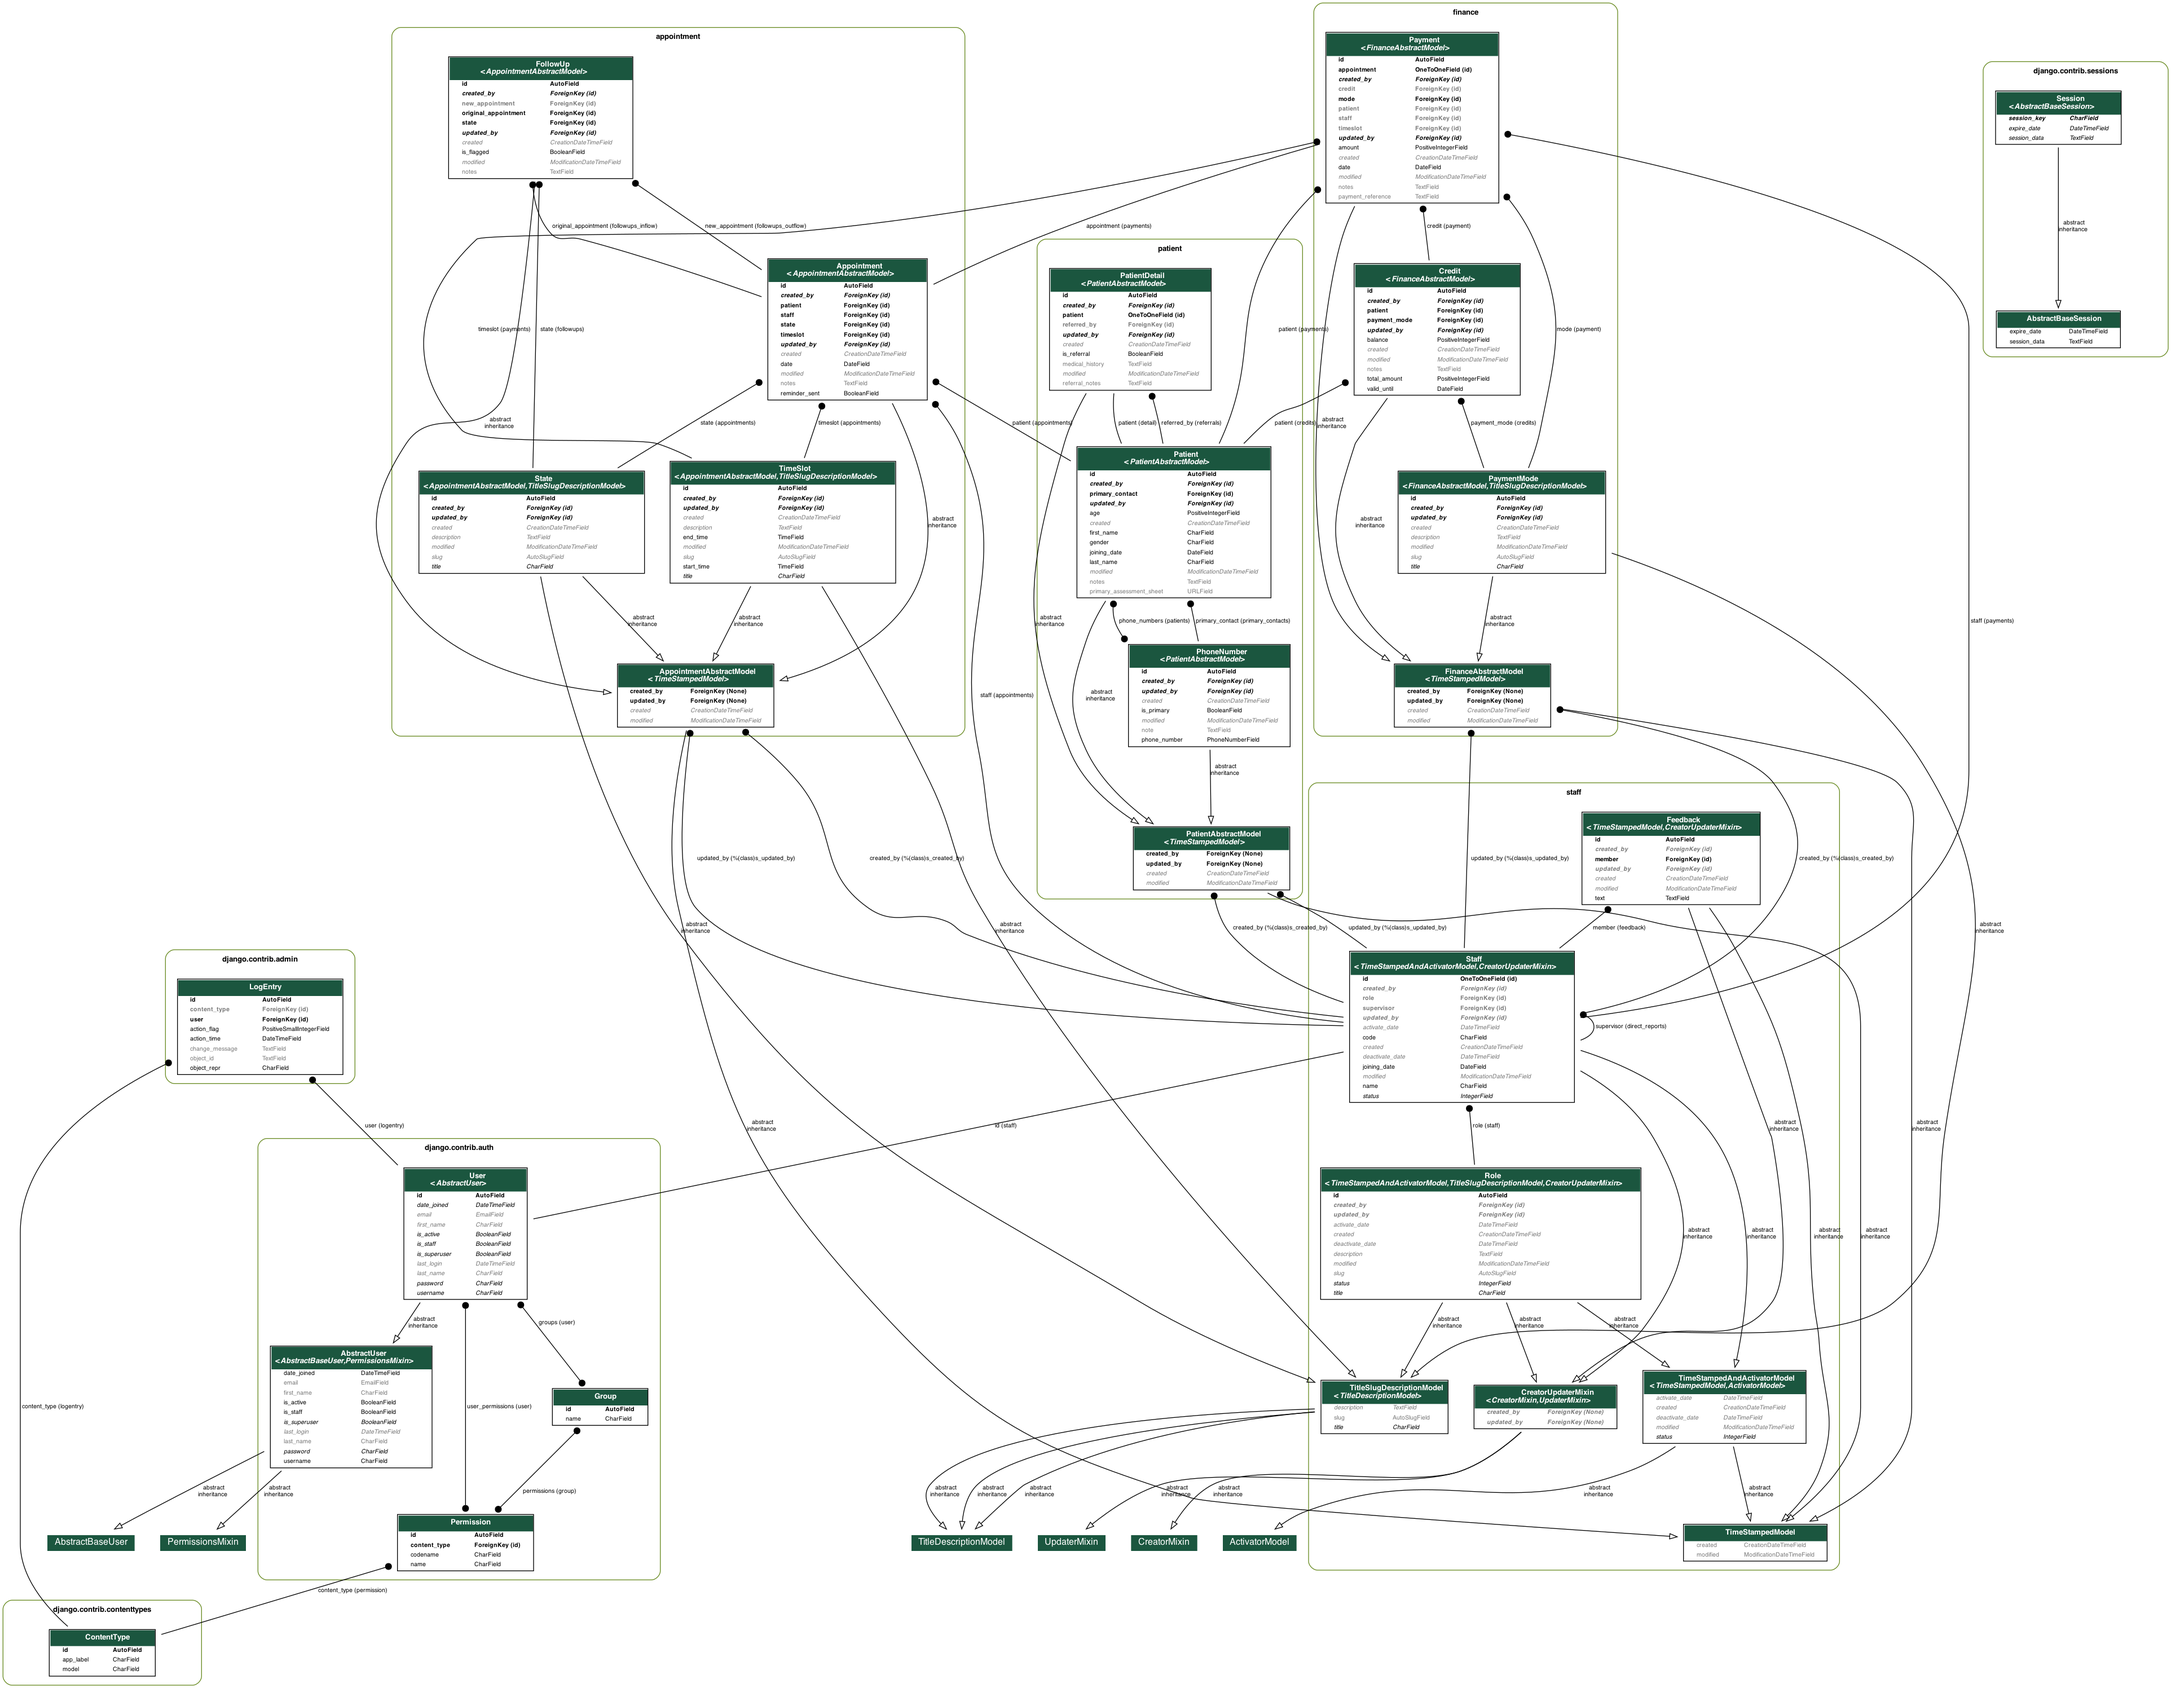
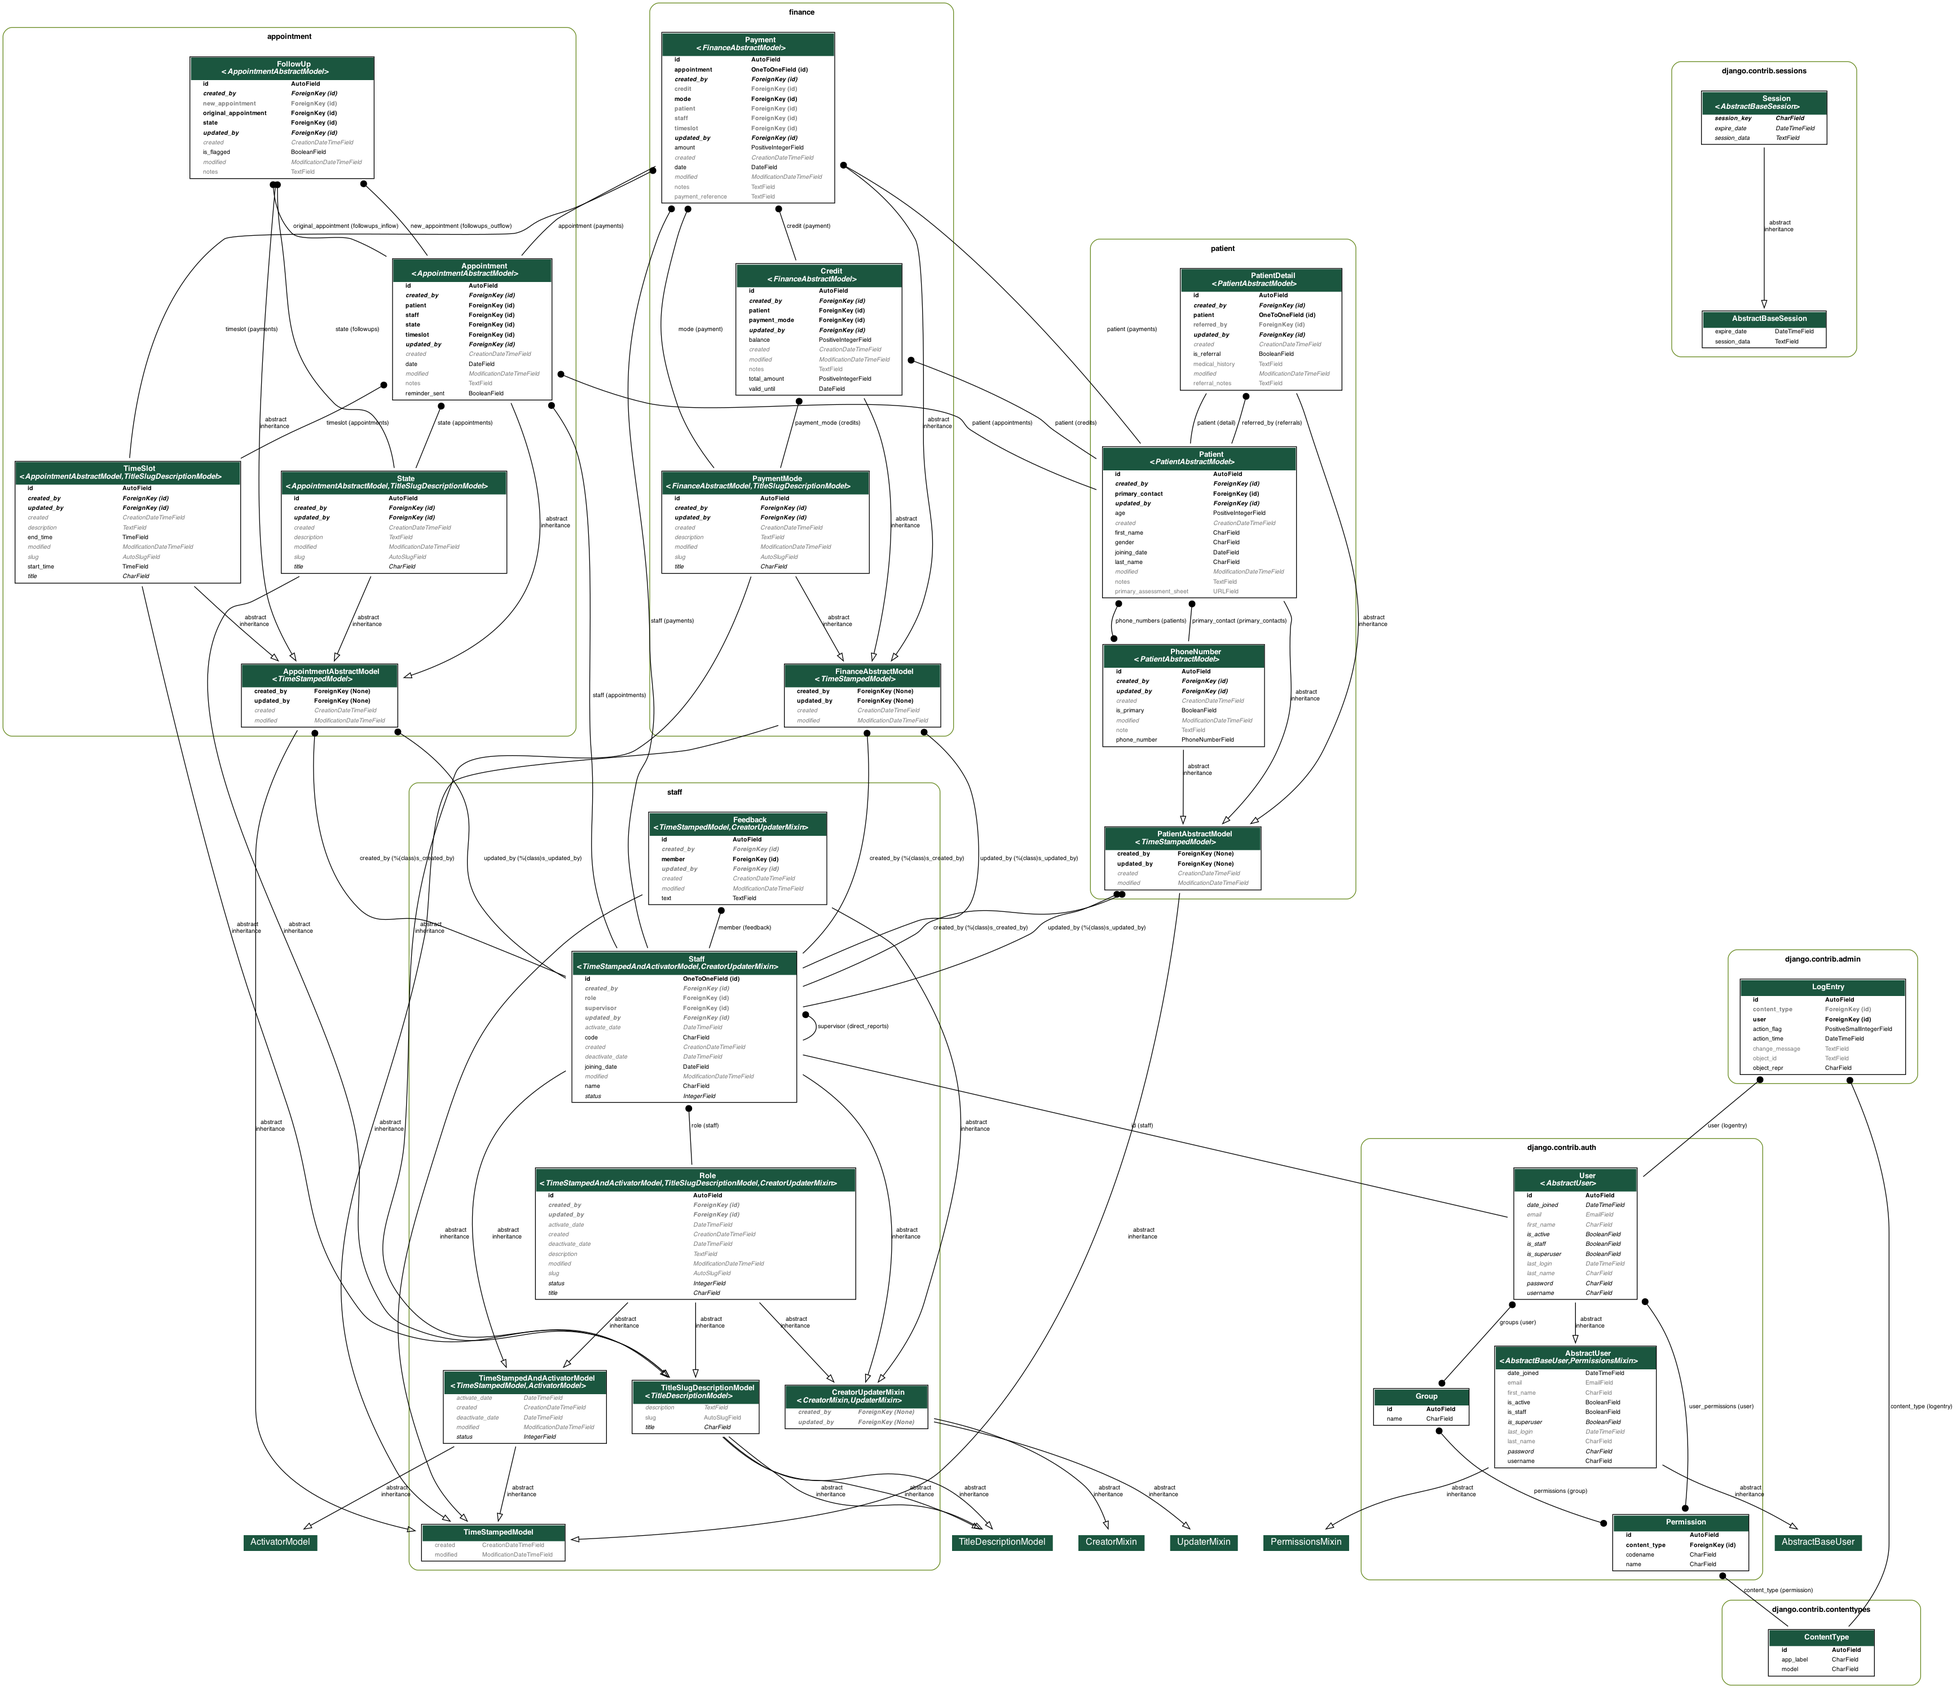
Grappelli Demo using Staff model (#12)
* Demo of grappelli using Staff model

* updating the eerds

* updating the eerds

diff --git a/staff/admin.py b/staff/admin.py
@@ -1,8 +1,98 @@
 from django.contrib import admin
+from django.contrib.admin import TabularInline
 
 from staff.models import Feedback, Role, Staff
 
 # Register your models here.
 admin.site.register(Role)
-admin.site.register(Staff)
+# admin.site.register(Staff)
 admin.site.register(Feedback)
+
+
+class FeedbackInline(TabularInline):
+    model = Feedback
+    can_delete = False
+
+
+class RoleInline(TabularInline):
+    model = Role
+    can_delete = False
+
+
+class StaffInline(TabularInline):
+    model = Staff
+    readonly_fields = ("__all__",)
+    list_display_links = ["__str__"]
+    exclude = (
+        # "is_active",
+        # "created_at",
+        # "modified_at",
+        # "difficulty_sort",
+        # "url",
+    )
+    can_delete = False
+
+
+class StaffAdmin(admin.ModelAdmin):
+    list_display = ("name", "role", "supervisor", "code", "get_status_display")
+    search_fields = ["code", "name"]
+    list_display_links = ["name", "code"]
+    list_filter = ["supervisor", "status", "role"]
+    readonly_fields = ("created", "modified")
+    list_select_related = ["role"]
+
+    def get_readonly_fields(self, request, obj=None):
+        if obj:
+            custom_readonly_fields = (
+                "created_by",
+                "updated_by",
+            )
+            return self.readonly_fields + custom_readonly_fields
+        return self.readonly_fields
+
+    def formfield_for_foreignkey(self, db_field, request, **kwargs):
+
+        # TODO optimize this
+        if db_field.name in ["created_by", "updated_by"]:
+            requester_django_user = request.user
+            kwargs["initial"] = (
+                requester_django_user.staff
+                if hasattr(requester_django_user, "staff")
+                else None
+            )
+            kwargs["queryset"] = Staff.objects.filter(id=requester_django_user)
+            return db_field.formfield(**kwargs)
+
+        return super(StaffAdmin, self).formfield_for_foreignkey(
+            db_field, request, **kwargs
+        )
+
+    class Meta:
+        model = Staff
+
+
+admin.site.register(Staff, StaffAdmin)
+
+
+class AbstractAdmin(object):
+    def get_readonly_fields(self, request, obj=None):
+        if obj:
+            custom_readonly_fields = (
+                "created_by",
+                "updated_by",
+            )
+            return self.readonly_fields + custom_readonly_fields
+        return self.readonly_fields
+
+    def formfield_for_foreignkey(self, db_field, request, **kwargs):
+
+        # TODO optimize this
+        if db_field.name in ["created_by", "updated_by"]:
+            requester_django_user = request.user
+            kwargs["initial"] = (
+                requester_django_user.staff
+                if hasattr(requester_django_user, "staff")
+                else None
+            )
+            kwargs["queryset"] = Staff.objects.filter(id=requester_django_user)
+            return db_field.formfield(**kwargs)

diff --git a/staff/management/commands/bootstrap_staff_data.py b/staff/management/commands/bootstrap_staff_data.py
@@ -25,6 +25,8 @@ class Command(BaseCommand):
 
         self.create_staff()
 
+        self.set_superuser_as_supervisor()
+
     def create_roles(self):
         roles = ["SuperUser", "Junior", "Mid", "Senior", "Intern"]
         for role_title in roles:
@@ -39,7 +41,9 @@ class Command(BaseCommand):
         core_user = self._django_user(
             username="SuperUser",
             password=None,
-            email="superuser@localhost.com",
+            first_name="Super",
+            last_name="User",
+            email="superuser@email.com",
             is_superuser=True,
             is_staff=True,
             is_active=True,
@@ -49,7 +53,6 @@ class Command(BaseCommand):
 
         staff_member = self._create_staff_member(
             core_user=core_user,
-            name="SuperUser",
             code=SUPERUSER_STAFF_CODE,
             role=su_role,
         )
@@ -68,7 +71,7 @@ class Command(BaseCommand):
         email: str = None,
         is_superuser: bool = False,
         is_active: bool = True,
-        is_staff: bool = False,
+        is_staff: bool = True,
     ) -> CoreUser:
         new_core_user = CoreUser()
 
@@ -76,7 +79,7 @@ class Command(BaseCommand):
         fake_last_name = fake.last_name()
 
         new_core_user.username = (
-            username if username else f"{fake.first_name()}.{fake.last_name()}".lower()
+            username if username else f"{fake_first_name}.{fake_last_name}".lower()
         )
         new_core_user.first_name = first_name if first_name else fake_first_name
         new_core_user.last_name = last_name if last_name else fake_last_name
@@ -100,25 +103,25 @@ class Command(BaseCommand):
         self,
         core_user: CoreUser,
         role: Role,
-        name: str = None,
         code: str = None,
-        supervisor: CoreUser = None,
         joining_date: datetime.date = datetime.datetime.today().date(),
     ):
+
         new_staff = Staff()
         new_staff.id = core_user
-        new_staff.name = (
-            name if name else f"{core_user.first_name} {core_user.last_name}"
-        )
+        new_staff.name = f"{core_user.first_name} {core_user.last_name}"
         new_staff.code = code if code else core_user.username[:5].upper()
         new_staff.role = role
-        new_staff.supervisor = supervisor
         new_staff.joining_date = joining_date
         new_staff.save()
 
         self.style.SUCCESS(f"Staff created successfully! {str(new_staff)}")
 
         return new_staff
+
+    def set_superuser_as_supervisor(self):
+        supervisor = Staff.objects.get(id__username="SuperUser")
+        all_staff = Staff.objects.update(supervisor=supervisor)
 
     def create_mid_level(self):
         mid_level = Role.objects.get(slug="mid")

diff --git a/staff/migrations/0002_auto_20210323_2113.py b/staff/migrations/0002_auto_20210323_2113.py
@@ -1,0 +1,27 @@
+# Generated by Django 3.1.7 on 2021-03-23 15:43
+
+import django.db.models.deletion
+from django.conf import settings
+from django.db import migrations, models
+
+
+class Migration(migrations.Migration):
+
+    dependencies = [
+        migrations.swappable_dependency(settings.AUTH_USER_MODEL),
+        ("staff", "0001_initial"),
+    ]
+
+    operations = [
+        migrations.AlterField(
+            model_name="staff",
+            name="id",
+            field=models.OneToOneField(
+                on_delete=django.db.models.deletion.PROTECT,
+                primary_key=True,
+                related_name="staff",
+                serialize=False,
+                to=settings.AUTH_USER_MODEL,
+            ),
+        ),
+    ]

diff --git a/staff/models.py b/staff/models.py
@@ -57,7 +57,9 @@ class Role(
 
 
 class Staff(TimeStampedAndActivatorModel, CreatorUpdaterMixin):
-    id = models.OneToOneField(CoreUser, on_delete=models.PROTECT, primary_key=True)
+    id = models.OneToOneField(
+        CoreUser, on_delete=models.PROTECT, primary_key=True, related_name="staff"
+    )
     code = models.CharField(max_length=5, unique=True)
     name = models.CharField(max_length=255)
     joining_date = models.DateField()
